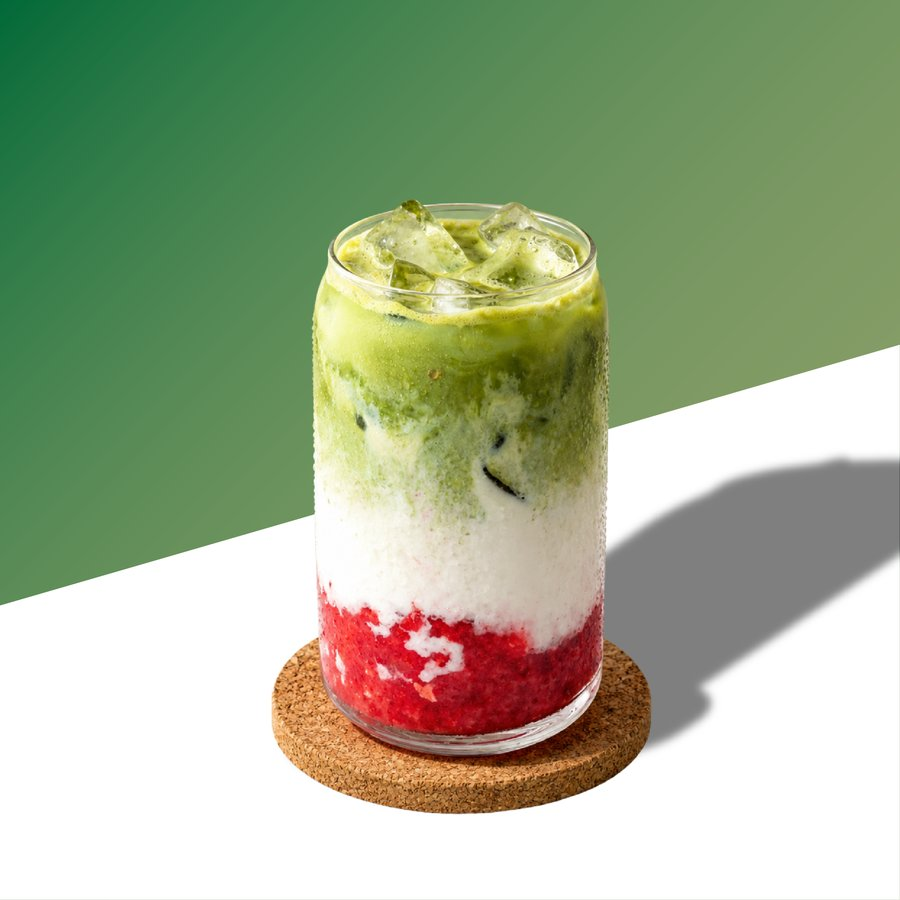
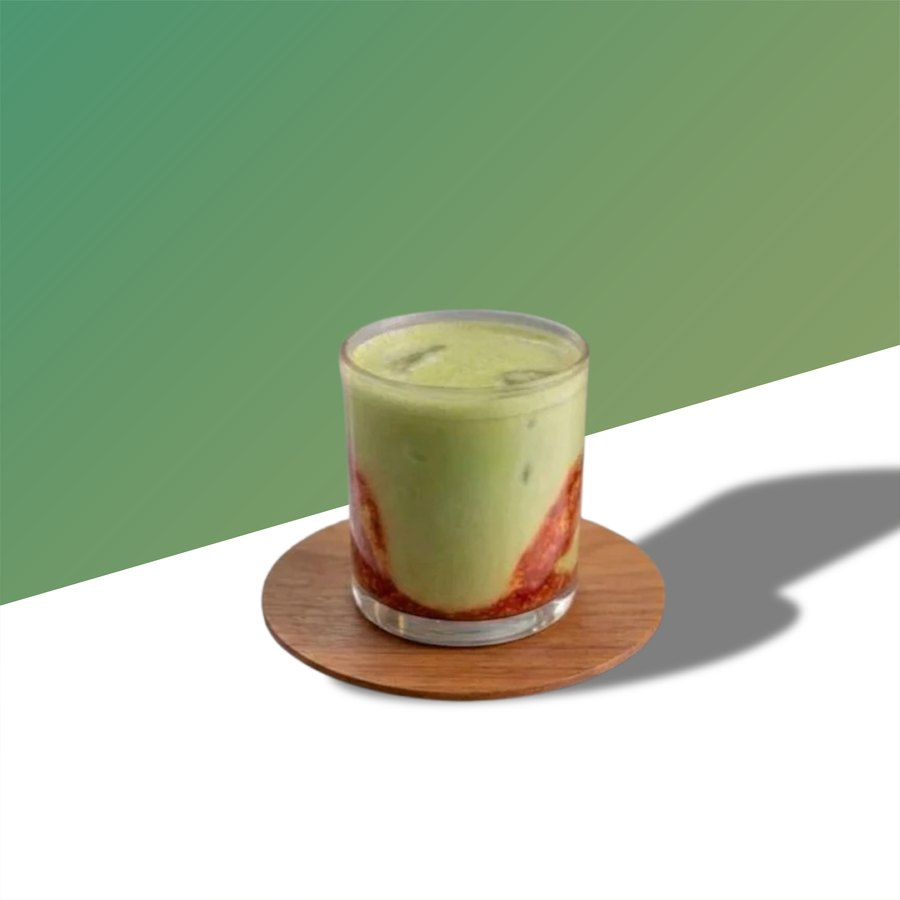
Update 11 foto menu + pecah Ice Cream Scoop jadi 3 varian saus
Foto baru dari Menu Satuan/Update Foto Menu 2 (PNG 4501x4501) dikonversi ke
JPG 900x900 q86: Dirty Matcha, Lychee Tea, Mango Tea, Peach Tea, Strawberry
Tea, Lemon Tea, Chocolate Pistachio, Strawberry Matcha (8 penggantian).

Ice Cream Scoop dipecah jadi tiga item sesuai foto yang dikirim:
  Ice Cream Mango Sauce / Caramel Sauce / Strawberry Sauce (masing-masing 20K)
Item lama ice-cream-scoop dihapus dari lib/data.ts dan asetnya.

Total menu 91 -> 93 item.

Verifikasi: hash 91 thumb sebelum/sesudah -> 11 berubah, 3 baru, 1 dihapus.
Korelasi thumb vs sumber baru 0.9990-0.9995 dibanding vs sumber lama
0.56-0.89, memastikan thumb berasal dari foto baru.

diff --git a/lib/data.ts b/lib/data.ts
@@ -246,7 +246,9 @@ export const MENU_FULL: MenuCat[] = [
           { name: "Cookies Original", price: 18, img: "/assets/menu-items/cookies-original.jpg" },
           { name: "Keju Aroma", price: 30, img: "/assets/menu-items/keju-aroma.jpg" },
           { name: "Cheesecake", price: 30, img: "/assets/menu-items/cheesecake.jpg" },
-          { name: "Ice Cream Scoop", price: 20, img: "/assets/menu-items/ice-cream-scoop.jpg", desc: "3 scoop es krim dengan mango/caramel jam" },
+          { name: "Ice Cream Mango Sauce", price: 20, img: "/assets/menu-items/ice-cream-mango-sauce.jpg", desc: "3 scoop es krim dengan saus mangga" },
+          { name: "Ice Cream Caramel Sauce", price: 20, img: "/assets/menu-items/ice-cream-caramel-sauce.jpg", desc: "3 scoop es krim dengan saus karamel" },
+          { name: "Ice Cream Strawberry Sauce", price: 20, img: "/assets/menu-items/ice-cream-strawberry-sauce.jpg", desc: "3 scoop es krim dengan saus strawberry" },
         ],
       },
     ],
